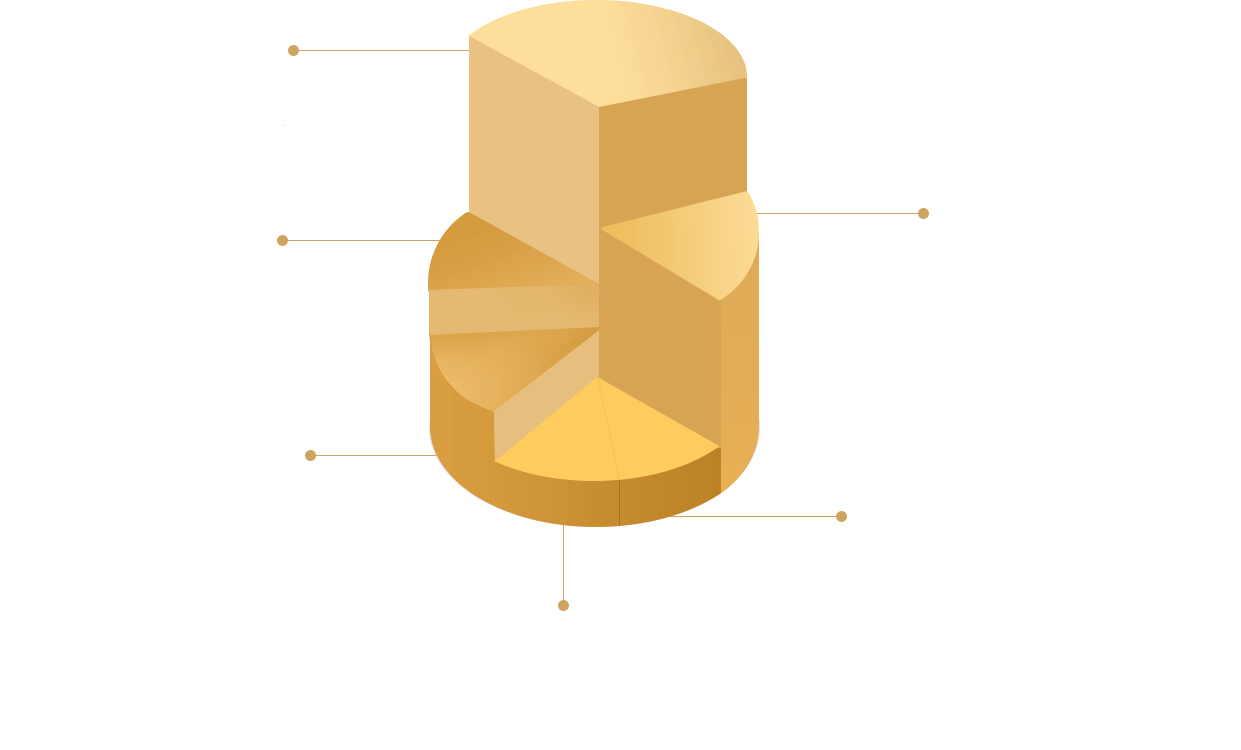
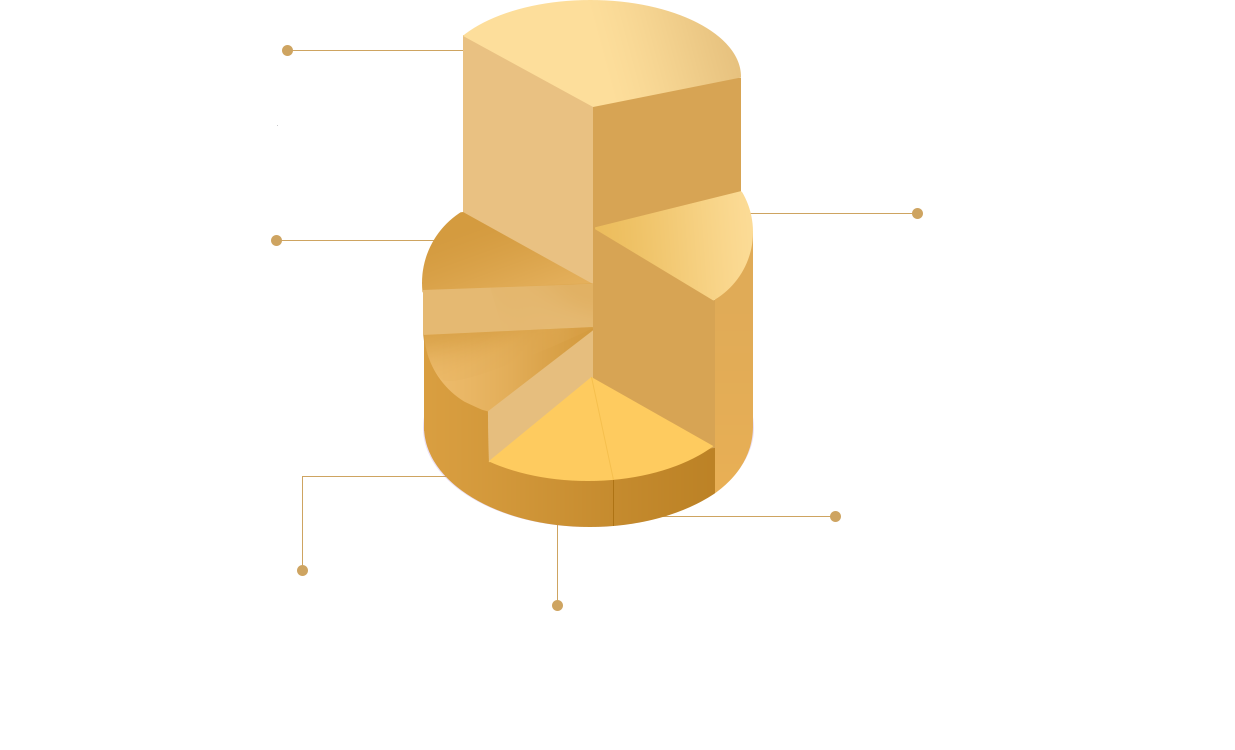
Brahma

diff --git a/public/css/site2/style_923.css b/public/css/site2/style_923.css
@@ -710,6 +710,12 @@ ul.nav > li > a:hover {
 .distribution-item div:first-of-type{
     position: relative;
 }
+
+.distribution-dash-line{
+    width: 1px;
+    height: 3vw;
+    background: #D3AB5A;
+}
 .distribution-item .distribution-desc{
     text-align: left;
     font-size: 16px;
@@ -736,6 +742,8 @@ ul.nav > li > a:hover {
     height: 1px;
     background: #D3AB5A;
 }
+
+
 .distribution-circle{
     width: 8px;
     height: 8px;
@@ -757,8 +765,15 @@ ul.nav > li > a:hover {
     bottom: 120px;
 }
 .foundation .distribution-l{
-    top: 1.7vh;
+    /*top: 3vw;*/
     right: -10vw;
+    align-items: flex-start;
+}
+.foundation .distribution-circle{
+    position: absolute;
+    left: 27%;
+    bottom: 0;
+    align-items: flex-start;
 }
 .developer-community{
     left: 35vw;
@@ -794,7 +809,7 @@ ul.nav > li > a:hover {
 
 @media (max-width: 1400px){
     .distribution-item .distribution-desc {
-        font-size: 14px;
+        font-size: 16px;
     }
     .token-sale {
         left: 6vw;
@@ -806,7 +821,7 @@ ul.nav > li > a:hover {
     }
     .foundation {
         left: 10vw;
-        bottom: 23%;
+        bottom: 16%;
     }
     #section-distribution .wrapper{
         margin-bottom: 25vh;

diff --git a/resources/views/site2/index.blade.php b/resources/views/site2/index.blade.php
@@ -677,9 +677,11 @@
 
                 <div class="distribution-item animated foundation" data-animation="bounceInLeft" data-animation-delay="1100">
                      <div class="left">
-                        <div class="distribution-l">
-                            <div class="distribution-circle"></div>
-                            <div class="distribution-line"></div>
+                            <div class="distribution-l">
+                                <div class="distribution-dash-line"></div>
+                                <div class="distribution-line"></div>
+                                <div class="distribution-circle">
+                            </div>
                         </div>
                         <span class="distribution-percent">10%</span>
                         <span class="distribution-percent-desc">Foundation</span>
